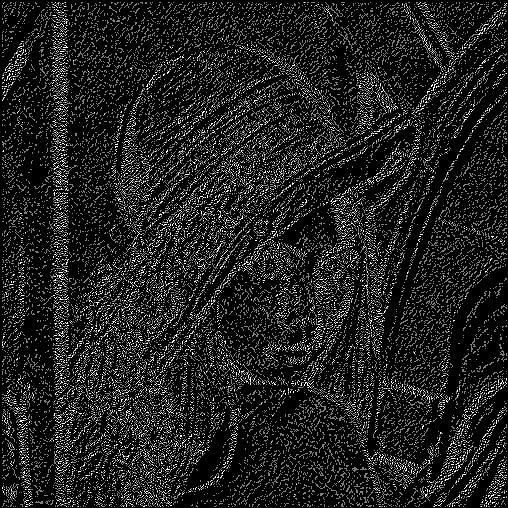
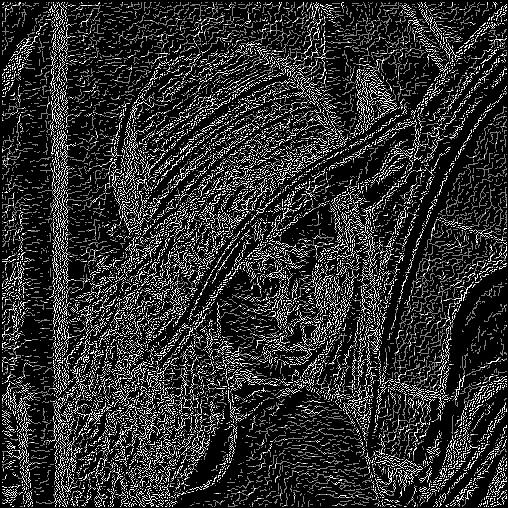
Tried changing sigma

diff --git a/Project/main.py b/Project/main.py
@@ -9,11 +9,16 @@ import PIL
 from Non_Max_Suppression import Non_Max_Suppression
 from HysteresisThreshold import HysteresisThreshold
 
-Laplacian_kernal = np.array([[0.093124, 0.0118914, 0.093124],
-                             [0.118914, 0.151845, -0.118914],
-                             [0.093124, 0.118914, 0.093124]])
+Laplacian_kernal1 = np.array([[0.093124, 0.0118914, 0.093124],
+                              [0.118914, 0.151845, 0.118914],
+                              [0.093124, 0.118914, 0.093124]])
 
-Laplacian_kernal2 = np.array([[0.012841, 0.026743, 0.03415, 0.026743, 0.012841],
+
+Laplacian_kernal2 = np.array([[0.102059, 0.115349, 0.102059],
+                              [0.115349, 0.130371, 0.115349],
+                              [0.102059, 0.115349, 0.102059]])
+
+Laplacian_kernal3 = np.array([[0.012841, 0.026743, 0.03415, 0.026743, 0.012841],
                               [0.026743, 0.055697, 0.071122, 0.055697, 0.026743],
                               [0.03415, 0.071122, 0.090818, 0.071122, 0.03415],
                               [0.026743, 0.055697, 0.071122, 0.055697, 0.026743],
@@ -27,8 +32,22 @@ Sobel_kernelY = np.array([[1, 2, 1],
                           [0, 0, 0],
                           [-1, -2, -1]])
 
+
+Sobel_kernelX2 = np.array([[-1, -2, 0, 2, 1],
+                           [-4, -10, 0, 10, 4],
+                           [-7, -17, 0, 17, 7],
+                           [-4, -10, 0, 10, 4],
+                           [-1, -2, 0, -2, 1]])
+
+Sobel_kernelY2 = np.array([[1, 4, 7, 4, 1],
+                           [2, 10, 17, 10, 2],
+                           [0, 0, 0, 0, 0],
+                           [-2, -10, -17, -10, -2],
+                           [-1, -4, -7, -4, -1]])
+
+
 Blurred_Image = GaussianBlur(
-    'lena.jpg', Laplacian_kernal.shape, Laplacian_kernal)
+    'lena.jpg', Laplacian_kernal1.shape, Laplacian_kernal1)
 
 Differentiated_in_X_Direction_Image = GradientX(
     Blurred_Image, Sobel_kernelX.shape, Sobel_kernelX)
@@ -48,18 +67,18 @@ print(Sx.shape)
 # cv.waitKey(0)
 
 
-S = np.abs(np.sqrt(Sx ** 2 + Sy ** 2))
+S = np.abs(np.sqrt(Sx**2 + Sy**2))
 print(type(S))
 # img = PIL.Image.fromarray(S)
 # img.show()
 
 
-plt.imsave(fname='Magnitude_image.jpg',
+plt.imsave(fname='Magnitude_Image.jpg',
            cmap='gray', arr=S, format='jpg')
 
-Theta = (np.arctan2(Sx, Sy)) * (180 / np.pi)
+Theta = (np.arctan2(Sy, Sx)) * (180 / np.pi)
 print(Theta)
-plt.imsave(fname='Image_edge_angle.jpg',
+plt.imsave(fname='Edge_Angle_Image.jpg',
            cmap='gray', arr=Theta, format='jpg')
 
 # cv.imwrite("Magnitude.jpg", S)
@@ -74,7 +93,7 @@ plt.imsave(fname='Image_After_Non_Maximum_Suppression.jpg',
            cmap='gray', arr=Image_After_Non_Maximum_Suppression, format='jpg')
 cv.imshow('Check3', Image_After_Non_Maximum_Suppression)
 Image_After_Hysteresis_Thresholding = HysteresisThreshold(
-    Image_After_Non_Maximum_Suppression, 0.2, 0.9)
+    Image_After_Non_Maximum_Suppression, 0.3, 0.7)
 plt.imsave(fname='Image_After_Hysteresis_Thresholding.jpg',
            cmap='gray', arr=Image_After_Hysteresis_Thresholding, format='jpg')
 cv.imshow('Check4', Image_After_Hysteresis_Thresholding)

diff --git a/Project/Testing2.py b/Project/Testing2.py
@@ -1,3 +1,13 @@
-import matplotlib.pyplot as plt
+import numpy as np
+Sobel_kernelX = np.array([[1, 3, -1],
+                          [2, 8, -2],
+                          [1, 25, -1]])
 
-print(plt.imsave.__call__)
+y = Sobel_kernelX**2
+print(y)
+
+m = Sobel_kernelX*Sobel_kernelX
+print(m)
+
+n = np.matmul(Sobel_kernelX, Sobel_kernelX)
+print(n)
